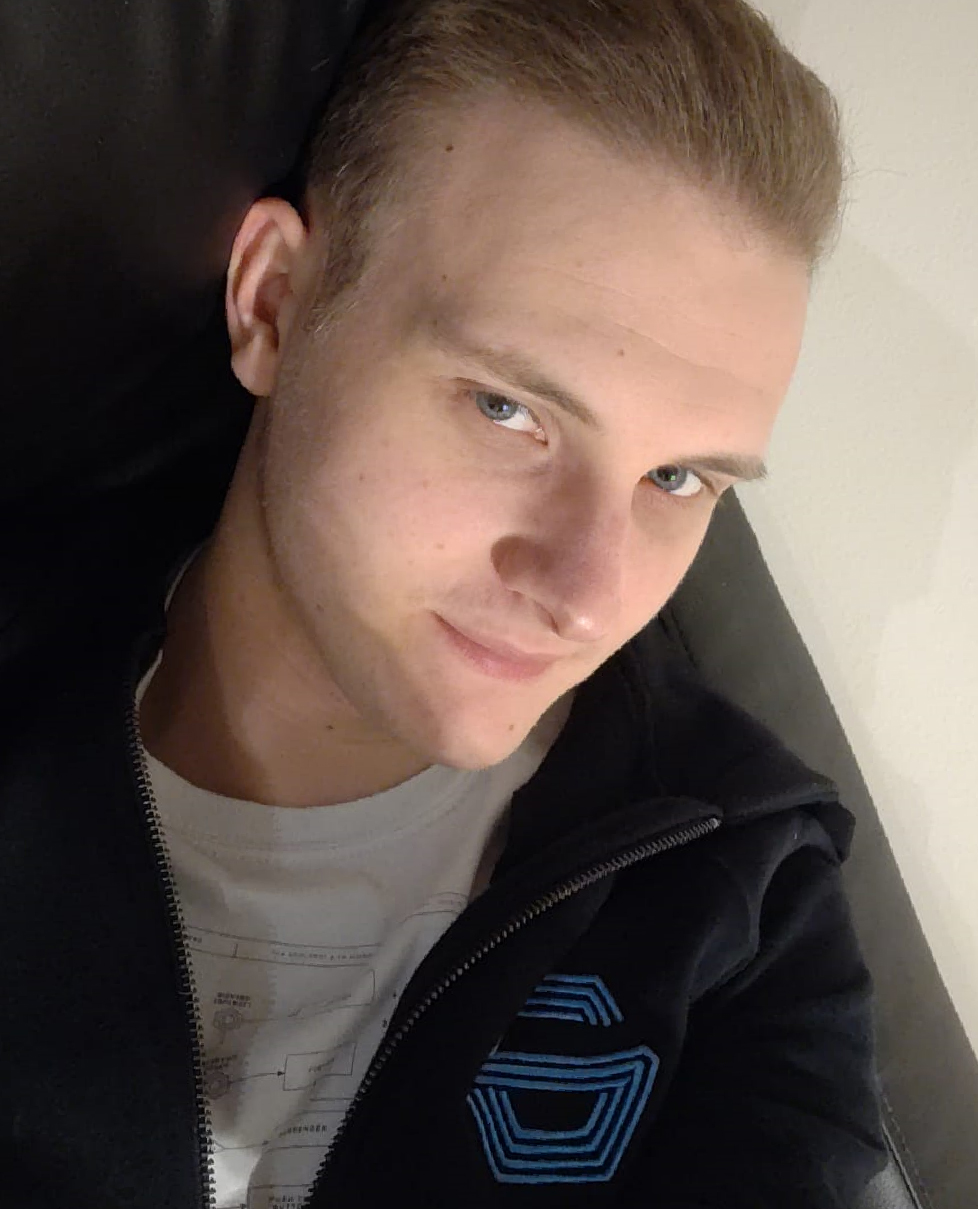
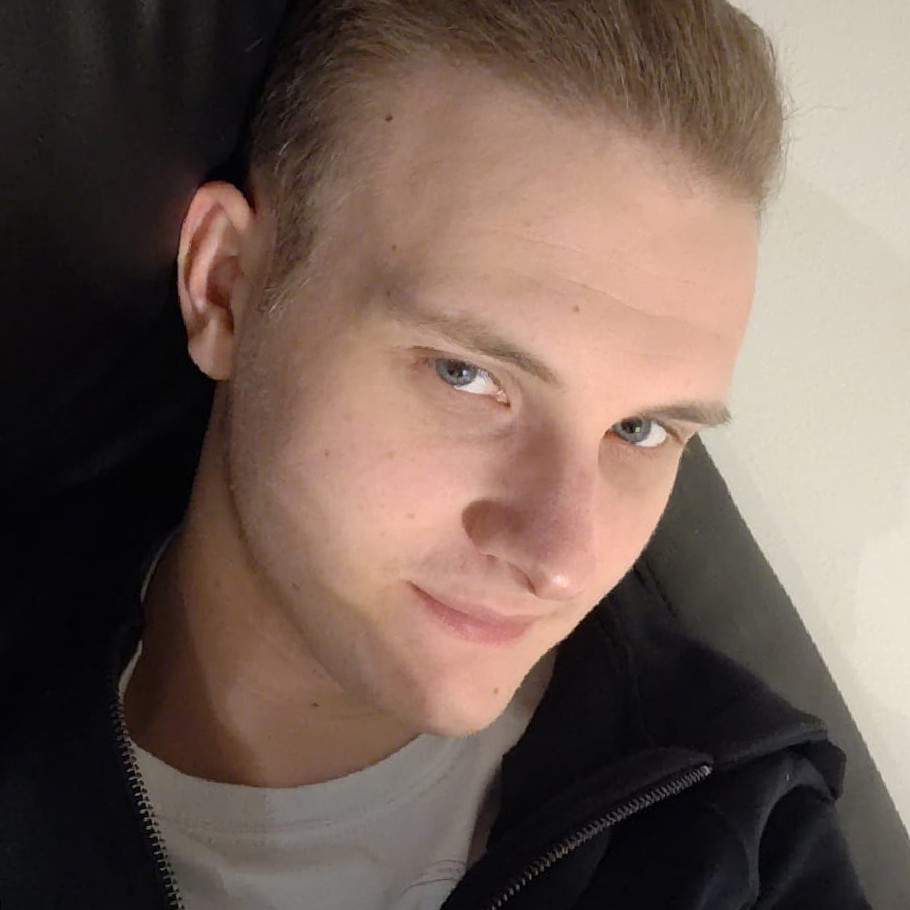
crop profile pic

diff --git a/public/js/app.js b/public/js/app.js
@@ -28059,7 +28059,7 @@ var render = function() {
         _c("div", { staticClass: "column" }, [
           _c("figure", { staticClass: "image" }, [
             _c("img", {
-              staticClass: "image",
+              staticClass: "image is-rounded",
               attrs: {
                 src: "/images/profile.jpg",
                 alt: "profile-picture",

diff --git a/resources/js/pages/About.vue b/resources/js/pages/About.vue
@@ -7,7 +7,7 @@
       <div class="column">
         <figure class="image">
           <img
-            class="image"
+            class="image is-rounded"
             src="/images/profile.jpg"
             alt="profile-picture"
             width="300px"
